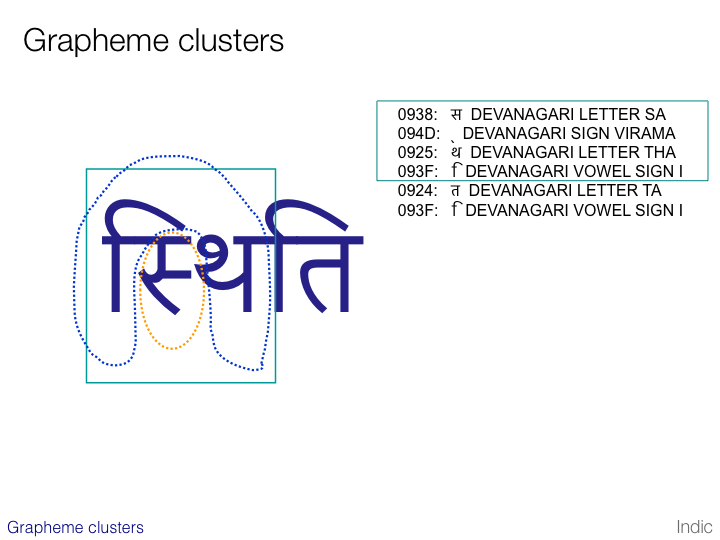
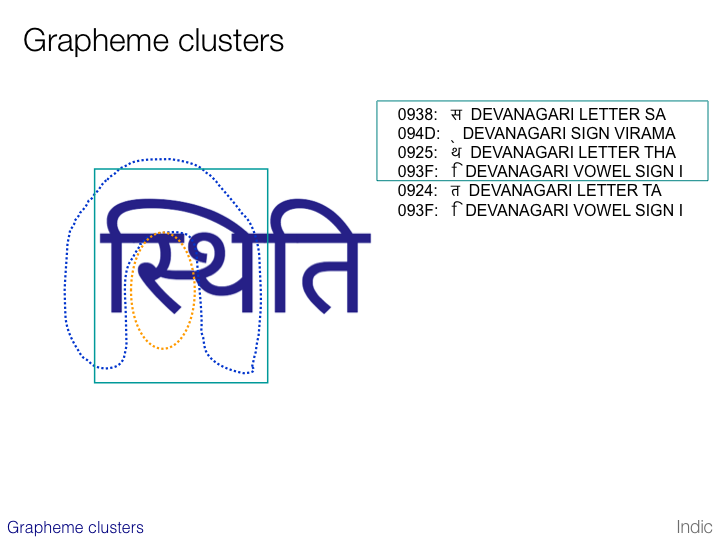
tutorial: Updated grapheme cluster section

Changed region(s): [[0.0917, 0.2963, 0.5194, 0.7111], [0.2139, 0.2667, 0.3056, 0.3259], [0.1528, 0.2963, 0.1833, 0.3259]]

diff --git a/tutorial/part3.html b/tutorial/part3.html
@@ -6,12 +6,12 @@
 <meta name="description"
 	  content="The tutorial will provide you with an understanding of key requirements for implementing writing systems in information technology. It will do this by examining real examples of a wide range of modern scripts to discover features that a computerized implementation must support." />
 
-<link rel="stylesheet" href="/style/docs.css" type="text/css" />
-<link rel="stylesheet" href="/style/slideshow.css" type="text/css" />
+<link rel="stylesheet" href="../../shared/style/docs.css" type="text/css" />
+<link rel="stylesheet" href="../../shared/style/slideshow.css" type="text/css" />
 <link rel="stylesheet" type="text/css" href="local.css" />
 
-<script type="text/javascript" src="/code/toc_section.js"></script>
-<script type="text/javascript" src="/code/boilerplate.js"></script>
+<script src="../../shared/code/toc_2016.js"></script>
+<script src="../../shared/code/boilerplate.js"></script>
 <!--[if lt IE 9]><script src="http://html5shim.googlecode.com/svn/trunk/html5.js"></script><![endif]-->
 </head>
 
@@ -475,7 +475,7 @@
   <section class="slide">
     <div class="slide-pic"><img src="images/grapheme-cluster.png" alt="slide" /></div>
     <div class="speaker-notes">
-      <p>What a user thinks of as a "character"—a basic unit of a writing system for a language—may not be just a single Unicode code point. Instead, that basic unit may be made up of multiple Unicode code points. This called a user-perceived character. The a-acute shown on the slide it is typically thought of as a single character by users, yet it may actually be represented by two Unicode code points.</p>
+      <p>What a user thinks of as a "character"—a basic unit of a writing system for a language—may not be just a single Unicode code point. Instead, that basic unit may be made up of multiple Unicode code points. This called a user-perceived character. The a-acute shown on the slide it is typically thought of as a single character by users, yet it may actually be represented by two Unicode code points. It is still expected to behave in many editing or typographic situations as a single unit.</p>
     </div>
   </section>
   <section class="slide">
@@ -494,10 +494,18 @@
     </div>
   </section>
   <section class="slide">
+    <div class="slide-pic"><img src="images/grapheme-cluster5.png" alt="slide" /></div>
+    <div class="speaker-notes">
+      <p>The top line of the slide shows a Tamil word, split into 3 grapheme clusters: (1) a base character with a combining vowel-sign to its left, (2) a ligated base character and vowel-sign, and (3) a base character with a combining character above.</p>
+      <p>The Thai word on the second line is split into 6 grapheme clusters: (1) and (2) are a base consonant followed by a vowel-sign, but the vowel-sign is a non-combining character, so these are both separate graphemes; (3) is a consonant with an inherent vowel; (4) is a base consonant followed by two combining characters, one of which is composed of two parts, the second of which extends the cluster horizontally. Items (5) and (6) are a single consonant+inherent vowel, and a consonant with combining vowel-sign above, respectively.</p>
+    </div>
+  </section>
+<section class="slide">
     <div class="slide-pic"><img src="images/grapheme-cluster4.png" alt="slide" /></div>
     <div class="speaker-notes">
-      <p>There are still some combinations of glyphs that users may consider a single unit, but which are not currently covered by the concept of grapheme cluster.  Many Indic languages other than Tamil have syllabic groupings of glyphs that interact in a complicated way.  In the word on the slide, the first syllable would be considered two grapheme clusters, although the first (the orange one) is embedded inside the second, visually. </p>
-      <p>UAX #29 describes the notion of tailored grapheme clusters for this.  The problem being that such a combination of characters is not always rendered in way that looks like a single character.  Sometimes a virama may be used, rather than a ligature. So tailorings for conjuncts may need to be script-, language-, font-, or context-specific to be useful. </p>
+      <p>There are still some combinations of glyphs that users may consider a single unit, but which are not currently covered by the concept of grapheme cluster.  Some Indic languages other than Tamil have  groupings of glyphs that interact in a complicated way to create a single unit.  In the word on the slide, the first syllable includes a consonant + virama + consonant + vowel sign. It is clear that this is a single typographic unit, not only because the first consonant uses the half glyph common to such conjuncts, but because the vowel-sign appears to the left of the whole group, and extends over to the rightmost part.</p>
+<p>However, although this is one grapheme (ie. user-perceived unit), the Unicode grapheme cluster algorithm treats this as two grapheme clusters, where the first (the orange one) is embedded inside the second, visually. This is because the algorithm doesn't combine the characters following the virama. This is about to change, however, in Unicode 11.</p>
+<p>Pre-Unicode11, UAX #29 describes the notion of tailored grapheme clusters for this.  The problem is that such a combination of characters is not always rendered in way that looks like a single character – sometimes a virama may be used, rather than a ligature. So tailorings for conjuncts may need to be script-, language-, font-, or context-specific to be useful. </p>
       <p class="slide-bottom">&nbsp;<a href="#topbar">go to top of page</a></p>
     </div>
   </section>
@@ -510,7 +518,7 @@
 
 
 <div class="smallprint"><span id="version">First published  Feb 2003.  This version <span id="version-info"> 
-  <!-- #BeginDate format:IS1m -->2017-10-16  11:35<!-- #EndDate --> 
+  <!-- #BeginDate format:IS1m -->2018-03-22  15:26<!-- #EndDate --> 
   </span> GMT. &nbsp;&bull;&nbsp; Copyright <a href="mailto:r12a@w3.org">r12a@w3.org</a>. Licence <a rel="license" href="http://creativecommons.org/licenses/by/4.0/">CC-By</a>.</span></div>
 
 
